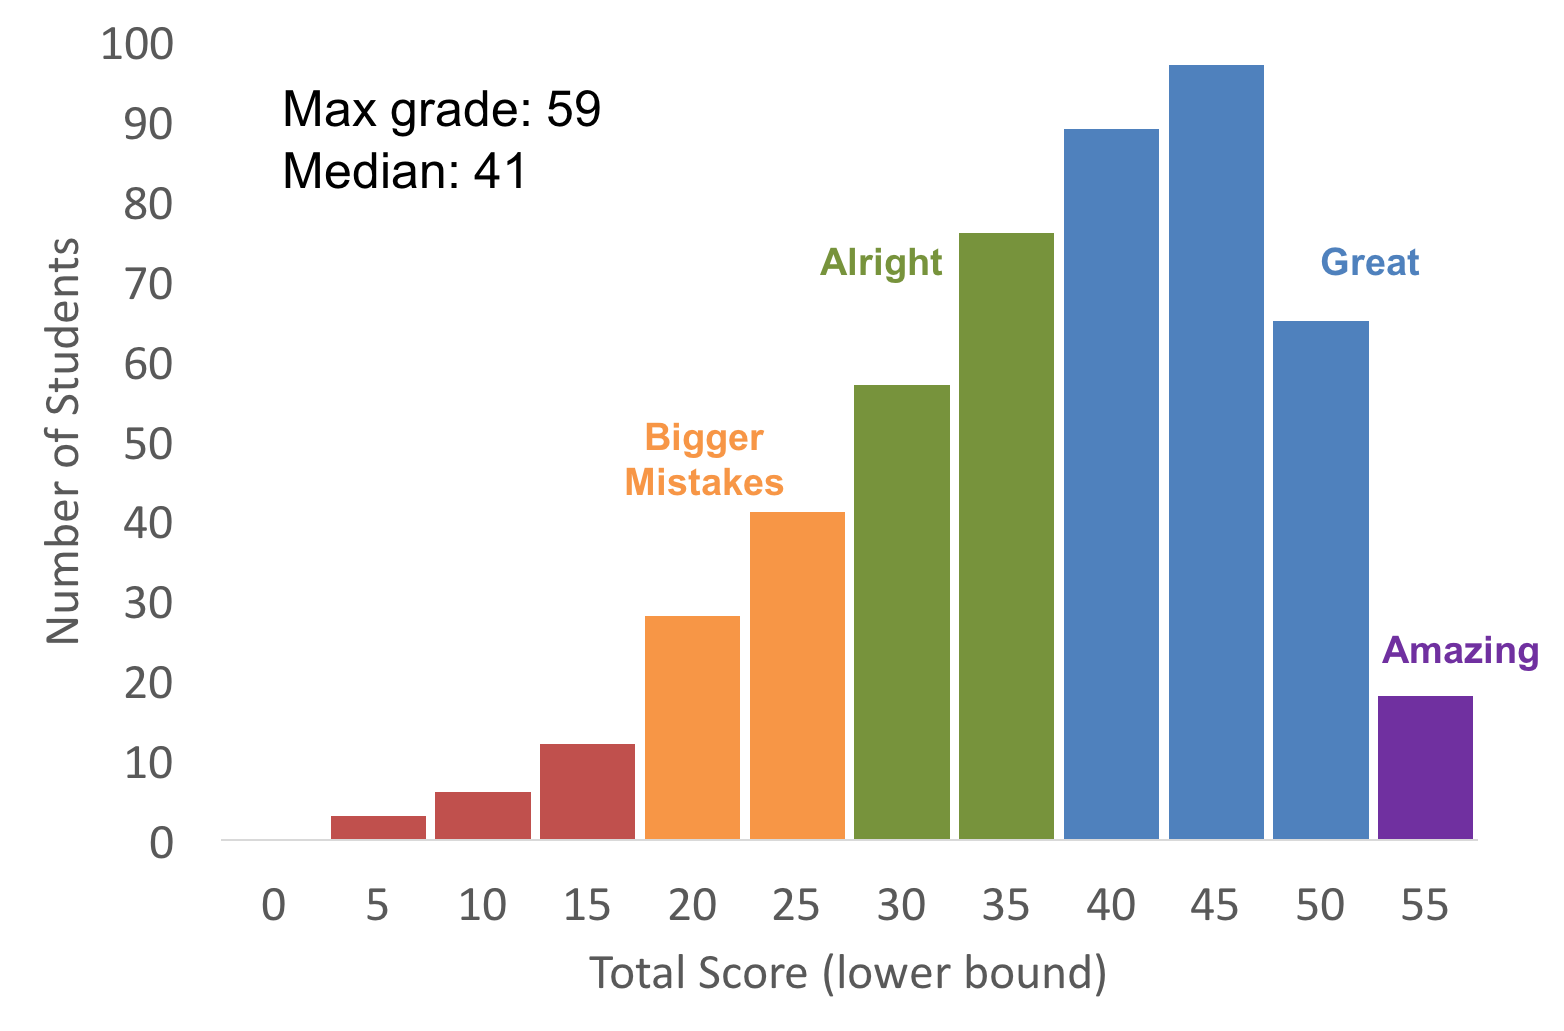
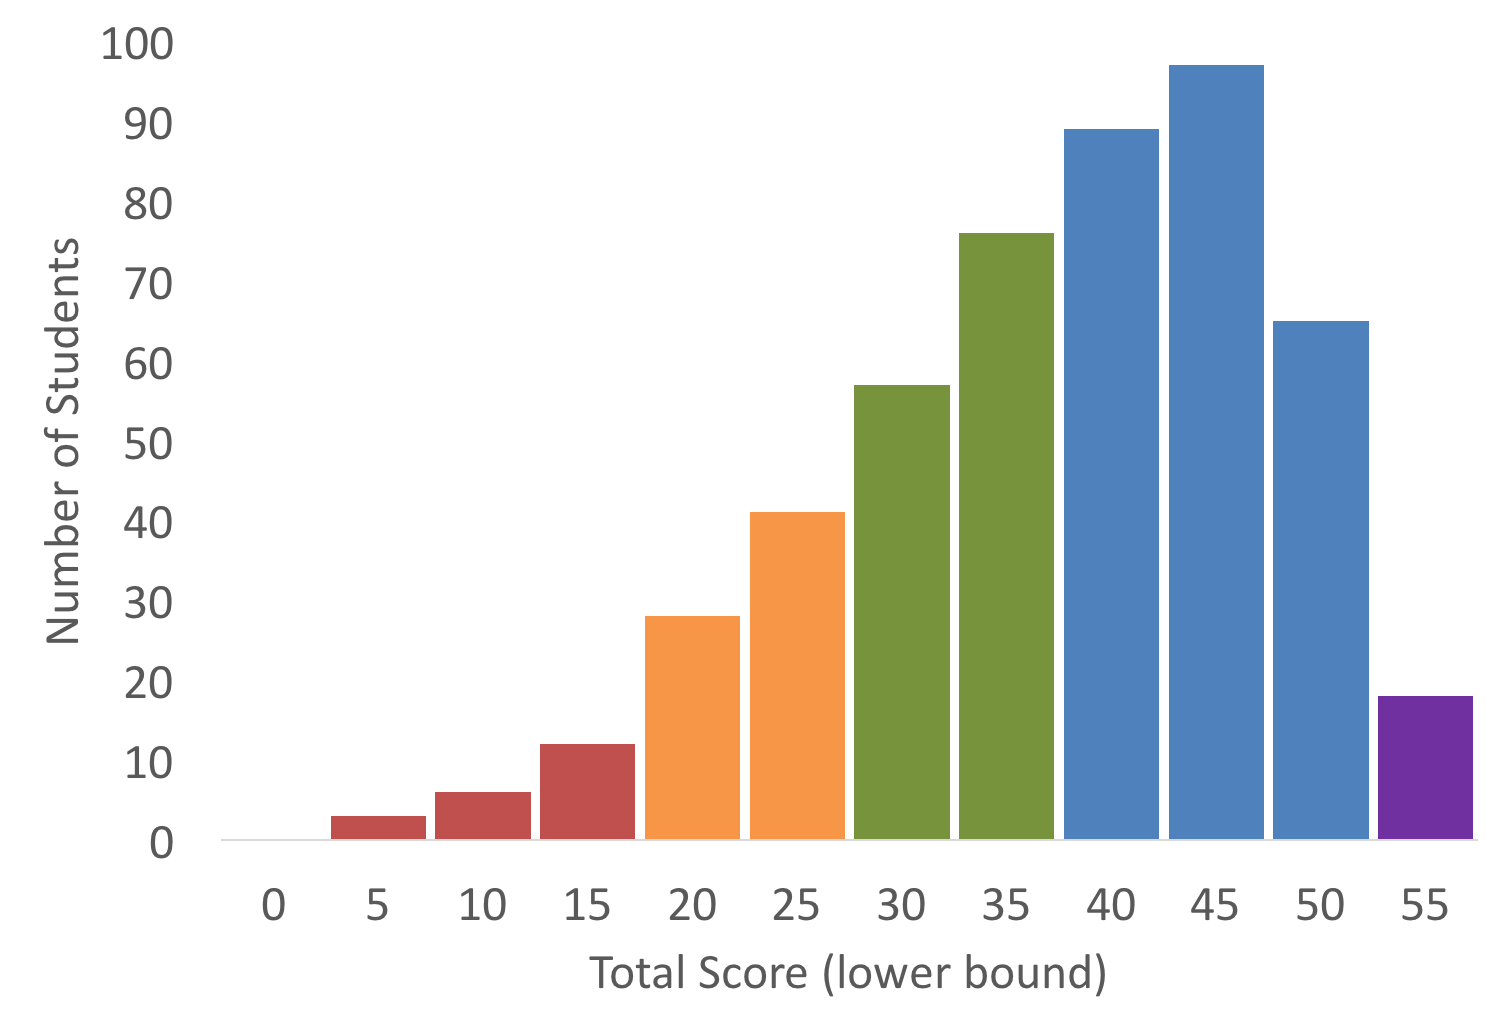
midterm final

diff --git a/index.html b/index.html
@@ -294,12 +294,12 @@
                 <div>
                     <p class="subtleHeading">EXAMS</p>
                     <p>
-                    <a href="//web.stanford.edu/class/cs106a/handouts/midterm.html">Midterm</a><br/>
+                    Midterm<br/>
                     <span class="sidebaricon glyphicon glyphicon-calendar" aria-hidden="true"></span> Monday, Feb 13th<br/>
                     <span class="sidebaricon glyphicon glyphicon-time" aria-hidden="true"></span> 7-9pm
                     </p>
                     <p>
-                    <a href="//web.stanford.edu/class/cs106a/handouts/final.html">Final</a><br/>
+                    Final<br/>
                     <span class="sidebaricon glyphicon glyphicon-calendar" aria-hidden="true"></span>
                     Monday, March 20th<br/>
                     <span class="sidebaricon glyphicon glyphicon-time" aria-hidden="true"></span> 8:30-11:30am
@@ -401,24 +401,20 @@
                 <div class="well">
                     <div class="newsfeedHeader">
                         <div class="newsfeedTitle">Midterms Returned</div>
-                        <div class="moment">2017022211</div>
+                        <div class="moment">2017022311</div>
                     </div>
 
                     <p>
-                            Graded CS106A midterms were returned after class on Wednesday, Feb. 22 via <a href="https://gradescope.com">Gradescope</a>, an online assignment grading website; if you did not receive an email inviting you to Gradescope (check your spam folder just in case), please <a href= "mailto:troccoli@stanford.edu">email Nick, the Head TA.</a>  If your scanned exam in Gradescope is difficult to read, and you would like to see your (ungraded) paper exam, you can pick it up from the CS106A filing cabinet in the "handout hangout", the lobby down the hall from Chris's office (Gates 193).  Please note that while grading we referenced both the paper and scanned versions to ensure your work was correctly graded.
+                            Graded CS106A midterms were returned after class on Wednesday, Feb. 22 via <a href="https://gradescope.com">Gradescope</a>, an online assignment grading website; if you did not receive an email inviting you to Gradescope (check your spam folder just in case), please <a href= "mailto:troccoli@stanford.edu">email Nick, the Head TA.</a> See the <a href="//web.stanford.edu/class/cs106a/handouts/30 - Midterm Solutions.pdf">midterm solutions</a> for reference. If your scanned exam in Gradescope is difficult to read, and you would like to see your (ungraded) paper exam, you can pick it up from the CS106A filing cabinet in the "handout hangout", the lobby down the hall from Chris's office (Gates 193).  Please note that while grading we referenced both the paper and scanned versions to ensure your work was correctly graded.
 
                             <br />
                             <br />
 
-                            Statistics for the CS106A midterm (out of 60 points) are:
-                            <ul>
-                                <li>Median = 41 (68.3%)
-                                <li>Mean = 39.47 (65.78%)
-                                <li>Standard Deviation = 10.39
-                                <li>Max = 59
-                            </ul>
+                            The median for the CS106A midterm was 41 out of 60 points. Here is the full distribution:
+                            <img style="width:100%" src = "//web.stanford.edu/class/cs106a/img/general/midtermDist.png"></img>
                             
-                            Solutions to the midterm will be posted shortly.  Also, this week, Chris will be holding additional office hours on <strong>Friday 11:30AM-1:30PM</strong> to discuss anything related to the midterm; feel free to stop by!
+                            
+                            This week Chris will be holding additional office hours on <strong>Friday 11:30AM-1:30PM</strong> to discuss anything related to the midterm; feel free to stop by!
 
                             <br />
                             <br />

diff --git a/templates/index.html b/templates/index.html
@@ -144,12 +144,12 @@
                 <div>
                     <p class="subtleHeading">EXAMS</p>
                     <p>
-                    <a href="{{pathToRoot}}handouts/midterm.html">Midterm</a><br/>
+                    Midterm<br/>
                     <span class="sidebaricon glyphicon glyphicon-calendar" aria-hidden="true"></span> Monday, Feb 13th<br/>
                     <span class="sidebaricon glyphicon glyphicon-time" aria-hidden="true"></span> 7-9pm
                     </p>
                     <p>
-                    <a href="{{pathToRoot}}handouts/final.html">Final</a><br/>
+                    Final<br/>
                     <span class="sidebaricon glyphicon glyphicon-calendar" aria-hidden="true"></span>
                     Monday, March 20th<br/>
                     <span class="sidebaricon glyphicon glyphicon-time" aria-hidden="true"></span> 8:30-11:30am
@@ -251,24 +251,20 @@
                 <div class="well">
                     <div class="newsfeedHeader">
                         <div class="newsfeedTitle">Midterms Returned</div>
-                        <div class="moment">2017022211</div>
+                        <div class="moment">2017022311</div>
                     </div>
 
                     <p>
-                            Graded CS106A midterms were returned after class on Wednesday, Feb. 22 via <a href="https://gradescope.com">Gradescope</a>, an online assignment grading website; if you did not receive an email inviting you to Gradescope (check your spam folder just in case), please <a href= "mailto:troccoli@stanford.edu">email Nick, the Head TA.</a>  If your scanned exam in Gradescope is difficult to read, and you would like to see your (ungraded) paper exam, you can pick it up from the CS106A filing cabinet in the "handout hangout", the lobby down the hall from Chris's office (Gates 193).  Please note that while grading we referenced both the paper and scanned versions to ensure your work was correctly graded.
+                            Graded CS106A midterms were returned after class on Wednesday, Feb. 22 via <a href="https://gradescope.com">Gradescope</a>, an online assignment grading website; if you did not receive an email inviting you to Gradescope (check your spam folder just in case), please <a href= "mailto:troccoli@stanford.edu">email Nick, the Head TA.</a> See the <a href="{{pathToRoot}}handouts/30 - Midterm Solutions.pdf">midterm solutions</a> for reference. If your scanned exam in Gradescope is difficult to read, and you would like to see your (ungraded) paper exam, you can pick it up from the CS106A filing cabinet in the "handout hangout", the lobby down the hall from Chris's office (Gates 193).  Please note that while grading we referenced both the paper and scanned versions to ensure your work was correctly graded.
 
                             <br />
                             <br />
 
-                            Statistics for the CS106A midterm (out of 60 points) are:
-                            <ul>
-                                <li>Median = 41 (68.3%)
-                                <li>Mean = 39.47 (65.78%)
-                                <li>Standard Deviation = 10.39
-                                <li>Max = 59
-                            </ul>
+                            The median for the CS106A midterm was 41 out of 60 points. Here is the full distribution:
+                            <img style="width:100%" src = "{{pathToRoot}}img/general/midtermDist.png"></img>
                             
-                            Solutions to the midterm will be posted shortly.  Also, this week, Chris will be holding additional office hours on <strong>Friday 11:30AM-1:30PM</strong> to discuss anything related to the midterm; feel free to stop by!
+                            
+                            This week Chris will be holding additional office hours on <strong>Friday 11:30AM-1:30PM</strong> to discuss anything related to the midterm; feel free to stop by!
 
                             <br />
                             <br />
